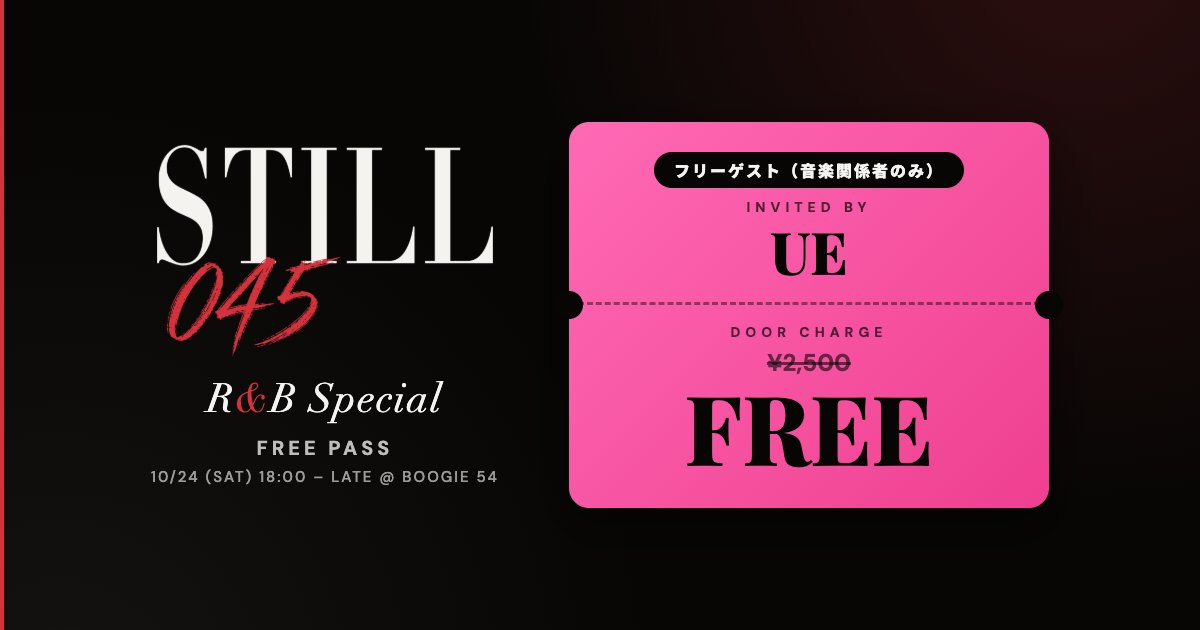
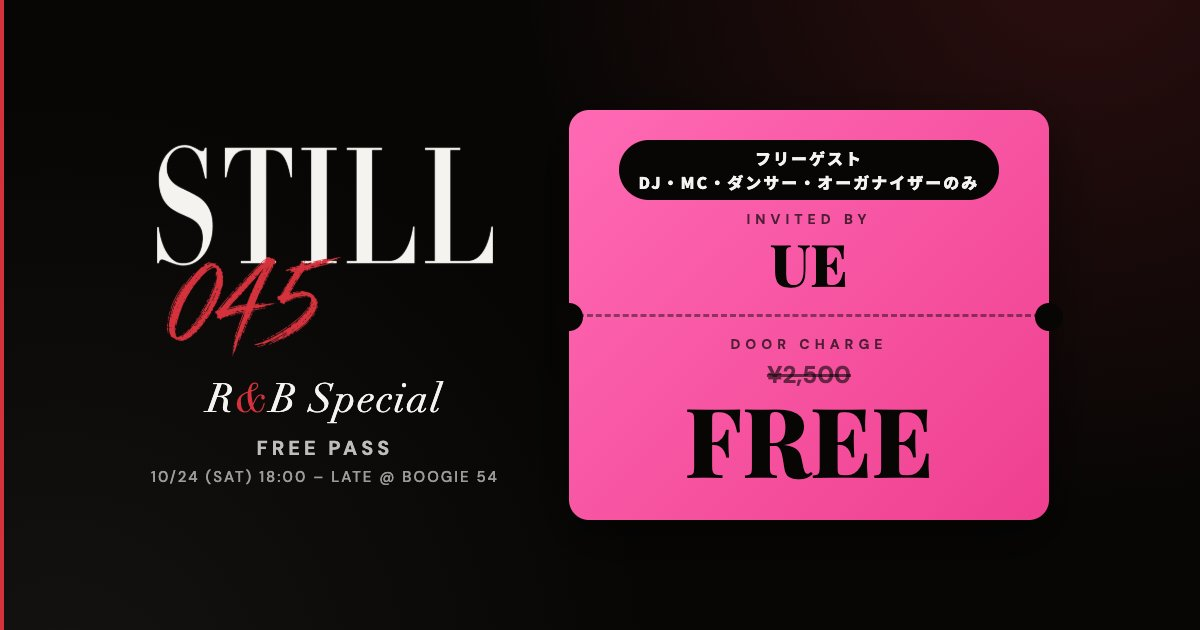
FREE パスのバッジを「DJ・MC・ダンサー・オーガナイザーのみ」に変更
Claude-Session: https://claude.ai/code/session_01FrmKjpniBtE6ghHXEPcwk1

Changed region(s): [[0.4625, 0.1508, 0.8942, 0.8444]]

diff --git a/ue-free/index.html b/ue-free/index.html
@@ -5,7 +5,7 @@
 <meta name="viewport" content="width=device-width, initial-scale=1, viewport-fit=cover">
 <meta name="theme-color" content="#070605">
 <meta name="robots" content="noindex, nofollow">
-<meta property="og:title" content="STILL 045 | FREE PASS（音楽関係者のみ）">
+<meta property="og:title" content="STILL 045 | FREE PASS（DJ・MC・ダンサー・オーガナイザーのみ）">
 <meta property="og:description" content="R&amp;B Special。リンクを開いて入口で見せるだけ。10/24 (SAT) @ BOOGIE 54 — ALL R&amp;B / ALL NIGHT · Throwback 70s–2000s · Slow Jams / New Jack Swing / Funk / Soul">
 <meta property="og:type" content="website">
 <meta property="og:image" content="https://045.djue.me/og/ue-free.jpg">
@@ -400,7 +400,7 @@
     <div class="rule"></div>
 
     <section class="coupon" aria-label="フリーパス">
-      <div class="coupon-tag">フリーゲスト（音楽関係者のみ）</div>
+      <div class="coupon-tag">フリーゲスト<br><span style="letter-spacing:.5px;font-size:10px;white-space:nowrap">DJ・MC・ダンサー・オーガナイザーのみ</span></div>
       <div class="label">Invited by</div>
       <span class="invited-name">UE</span>
       <div class="coupon-date">2026.10.24 (SAT)<span class="valid">この日のみ有効</span></div>

diff --git a/_template_free.html b/_template_free.html
@@ -5,7 +5,7 @@
 <meta name="viewport" content="width=device-width, initial-scale=1, viewport-fit=cover">
 <meta name="theme-color" content="#070605">
 <meta name="robots" content="noindex, nofollow">
-<meta property="og:title" content="STILL 045 | FREE PASS（音楽関係者のみ）">
+<meta property="og:title" content="STILL 045 | FREE PASS（DJ・MC・ダンサー・オーガナイザーのみ）">
 <meta property="og:description" content="R&amp;B Special。リンクを開いて入口で見せるだけ。10/24 (SAT) @ BOOGIE 54 — ALL R&amp;B / ALL NIGHT · Throwback 70s–2000s · Slow Jams / New Jack Swing / Funk / Soul">
 <meta property="og:type" content="website">
 <meta property="og:image" content="{{OG_IMAGE}}">
@@ -400,7 +400,7 @@
     <div class="rule"></div>
 
     <section class="coupon" aria-label="フリーパス">
-      <div class="coupon-tag">フリーゲスト（音楽関係者のみ）</div>
+      <div class="coupon-tag">フリーゲスト<br><span style="letter-spacing:.5px;font-size:10px;white-space:nowrap">DJ・MC・ダンサー・オーガナイザーのみ</span></div>
       <div class="label">Invited by</div>
       <span class="invited-name">{{DJ_NAME}}</span>
       <div class="coupon-date">2026.10.24 (SAT)<span class="valid">この日のみ有効</span></div>
